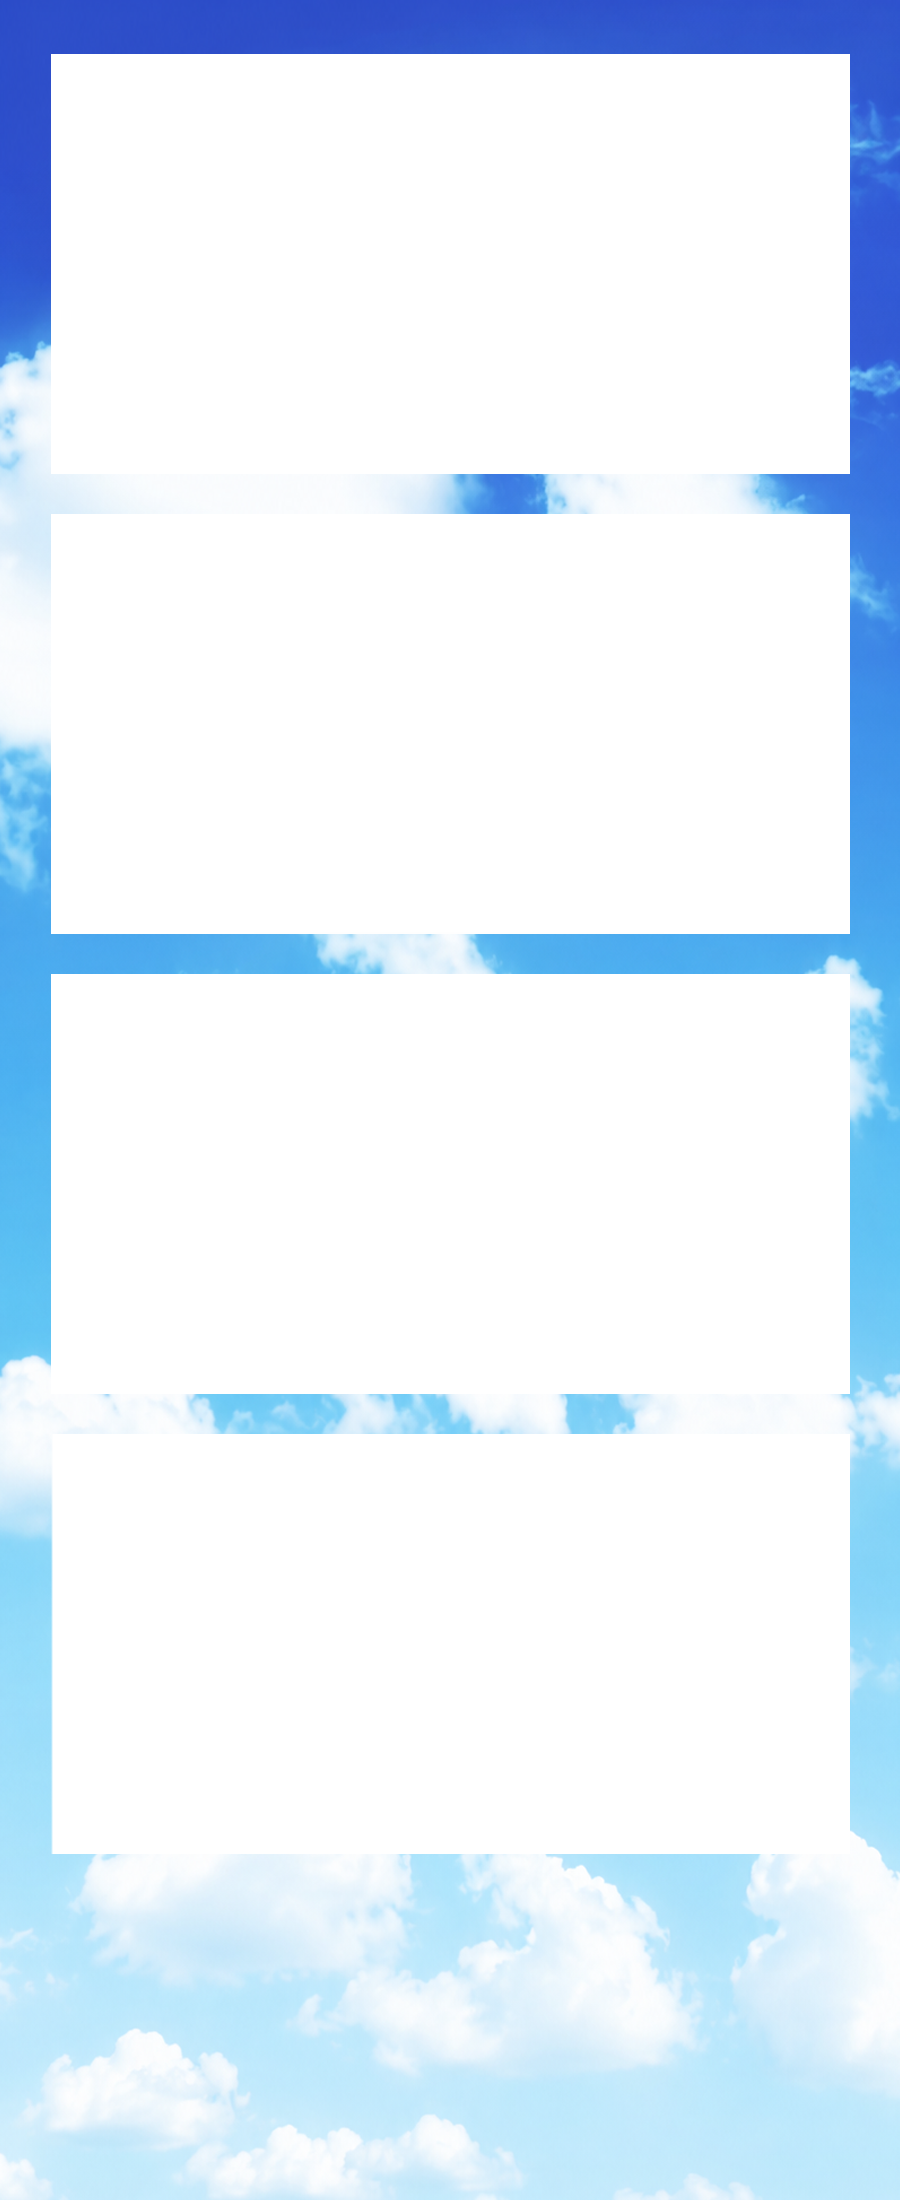
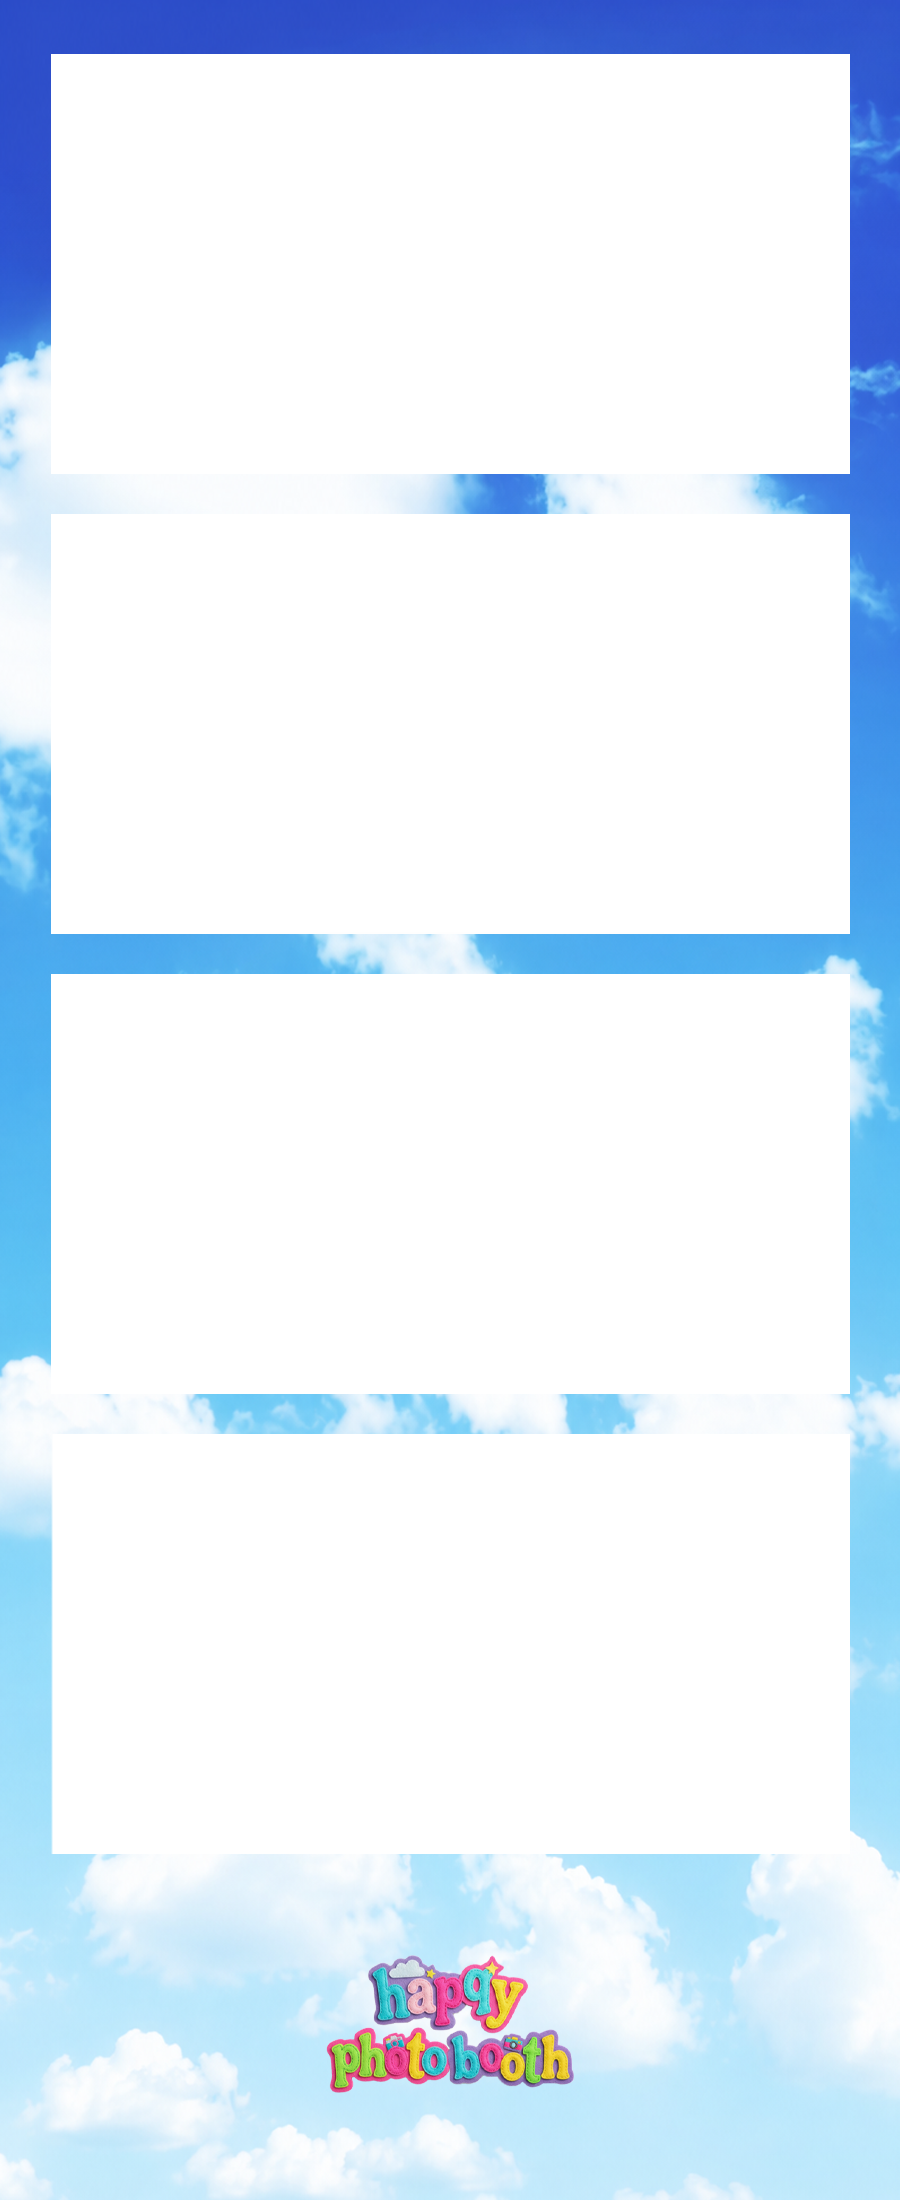
frames update

Changed region(s): [[0.3422, 0.8655, 0.6533, 0.9582]]

diff --git a/src/utils/canvas.js b/src/utils/canvas.js
@@ -81,6 +81,29 @@ const FRAME_CONFIG = {
           { x: 51, y: 1434, w: 799, h: 420, radius: 0 },
         ],
       })),
+
+      {
+        key: "whitestar",
+        label: "White Star",
+        src: "/frames/4cut_whitestar.png",
+        slots: [
+          { x: 51, y: 54, w: 799, h: 420, radius: 0 },
+          { x: 51, y: 514, w: 799, h: 420, radius: 0 },
+          { x: 51, y: 974, w: 799, h: 420, radius: 0 },
+          { x: 51, y: 1434, w: 799, h: 420, radius: 0 },
+        ],
+      },
+      {
+        key: "blackdot",
+        label: "Black Dot",
+        src: "/frames/4cut_blackdot.png",
+        slots: [
+          { x: 51, y: 54, w: 799, h: 420, radius: 0 },
+          { x: 51, y: 514, w: 799, h: 420, radius: 0 },
+          { x: 51, y: 974, w: 799, h: 420, radius: 0 },
+          { x: 51, y: 1434, w: 799, h: 420, radius: 0 },
+        ],
+      },
     ],
 
     previewRatio: "9 / 22",
@@ -123,6 +146,27 @@ const FRAME_CONFIG = {
       },
 
       {
+        key: "bluedot",
+        label: "Blue Dot",
+        src: "/frames/3cut_bluedot.png",
+        slots: [
+          { x: 68, y: 66, w: 765, h: 437, oval: true },
+          { x: 68, y: 543, w: 765, h: 437, oval: true },
+          { x: 68, y: 1020, w: 765, h: 437, oval: true },
+        ],
+      },
+      {
+        key: "pinkdot",
+        label: "Pink Dot",
+        src: "/frames/3cut_pinkdot.png",
+        slots: [
+          { x: 68, y: 66, w: 765, h: 437, oval: true },
+          { x: 68, y: 543, w: 765, h: 437, oval: true },
+          { x: 68, y: 1020, w: 765, h: 437, oval: true },
+        ],
+      },
+
+      {
         key: "sky",
         label: "Sky Oval",
         src: "/frames/3cut_sky.png",
@@ -146,7 +190,26 @@ const FRAME_CONFIG = {
         key: "princess",
         label: "Princess",
         src: "/frames/3cut_princess.png",
-
+        slots: [
+          { x: 51, y: 44, w: 799, h: 571, radius: 0 },
+          { x: 51, y: 659, w: 799, h: 571, radius: 0 },
+          { x: 51, y: 1274, w: 799, h: 571, radius: 0 },
+        ],
+      },
+      {
+        key: "kimdokrae",
+        label: "Kimdokrae",
+        src: "/frames/3cut_kimdokrae.png",
+        slots: [
+          { x: 51, y: 44, w: 799, h: 571, radius: 0 },
+          { x: 51, y: 659, w: 799, h: 571, radius: 0 },
+          { x: 51, y: 1274, w: 799, h: 571, radius: 0 },
+        ],
+      },
+      {
+        key: "catofqueen",
+        label: "Cat of Queen",
+        src: "/frames/3cut_catofqueen.png",
         slots: [
           { x: 51, y: 44, w: 799, h: 571, radius: 0 },
           { x: 51, y: 659, w: 799, h: 571, radius: 0 },

diff --git a/src/App.jsx b/src/App.jsx
@@ -15,6 +15,8 @@ const FRAME_OPTIONS = {
     { key: "pink", label: "Pink", color: "#df5aa0" },
     { key: "yellow", label: "Yellow", color: "#f2d94e" },
     { key: "purple", label: "Purple", color: "#9c82bd" },
+    { key: "whitestar", label: "White Star", color: "#fffaf0" },
+    { key: "blackdot", label: "Black Dot", color: "#111111" },
   ],
 
   "4cutFull": [{ key: "black-full", label: "Black Full", color: "#111111" }],
@@ -22,9 +24,15 @@ const FRAME_OPTIONS = {
   "3cut": [
     { key: "oval-black", label: "Oval Black", color: "#111111" },
     { key: "sky", label: "Sky", color: "#8fd5ff" },
+    { key: "bluedot", label: "Blue Dot", color: "#bfe8ff" },
+    { key: "pinkdot", label: "Pink Dot", color: "#ffd7e6" },
   ],
 
-  princess3cut: [{ key: "princess", label: "Princess", color: "#ff8fcf" }],
+  princess3cut: [
+    { key: "princess", label: "Princess", color: "#ff8fcf" },
+    { key: "kimdokrae", label: "Kimdokrae", color: "#f5a623" },
+    { key: "catofqueen", label: "Cat Queen", color: "#ffffff" },
+  ],
 
   grid45: [
     { key: "sky", label: "Sky Grid", color: "#8fd5ff" },